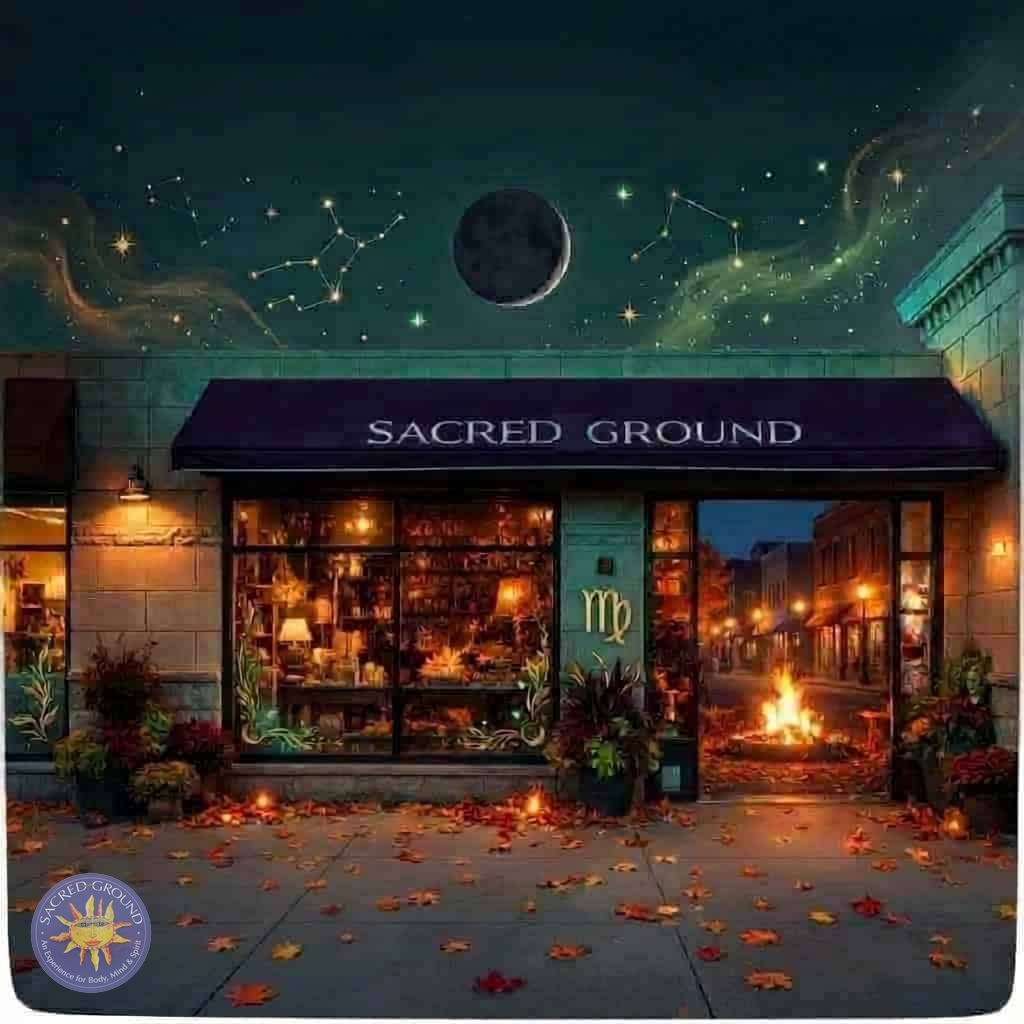
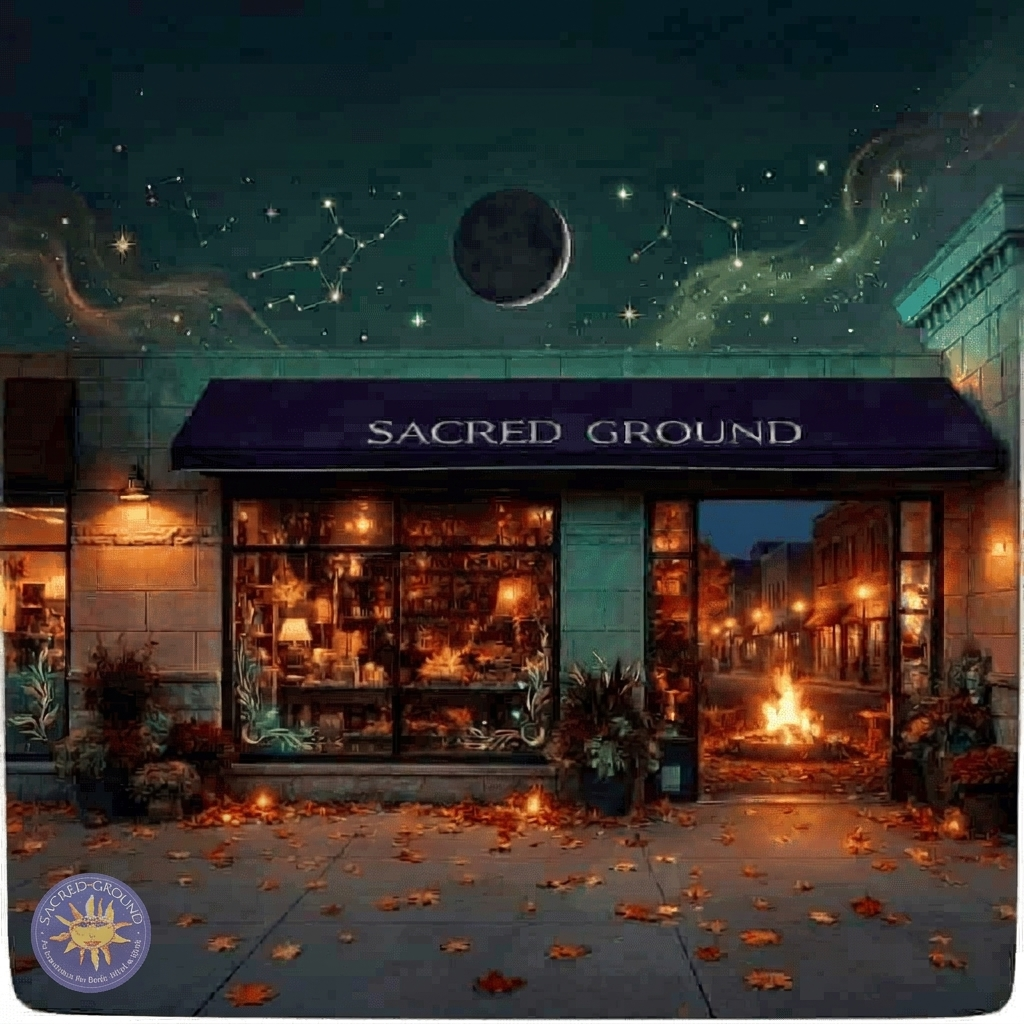
Take Virgo off the fall night storefronts for Libra season.

diff --git a/WORK-LOG.md b/WORK-LOG.md
@@ -1,3 +1,9 @@
+## 2026-09-26 — Virgo off night storefronts
+
+Founder: Libra season — take astrology off the building. Scrubbed ♍ from
+rain-puddles, bonfire-street, and star-trails (new URLs 28635 / 28633 / 28634).
+Did not add Libra. Rest of the fall_store family still being cleaned.
+
 ## 2026-09-24 — S1E11 YouTube + TikTok now
 
 Founder: YouTube now (cancel Friday 4pm), then TikTok too (cancel Sunday 9am). Same KEEP **28153**. Same Zernio jobs published immediately.
